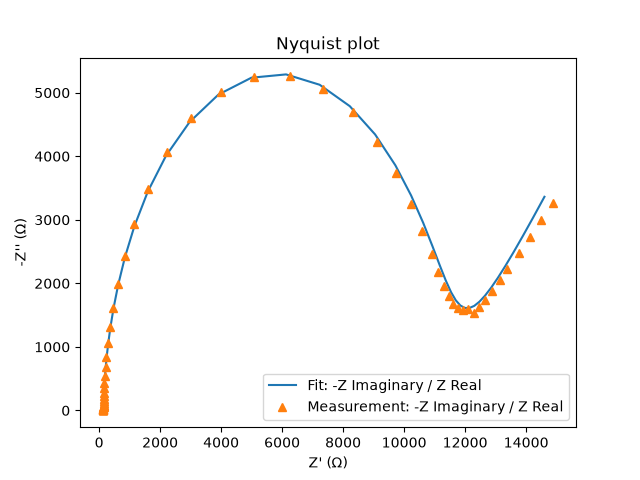
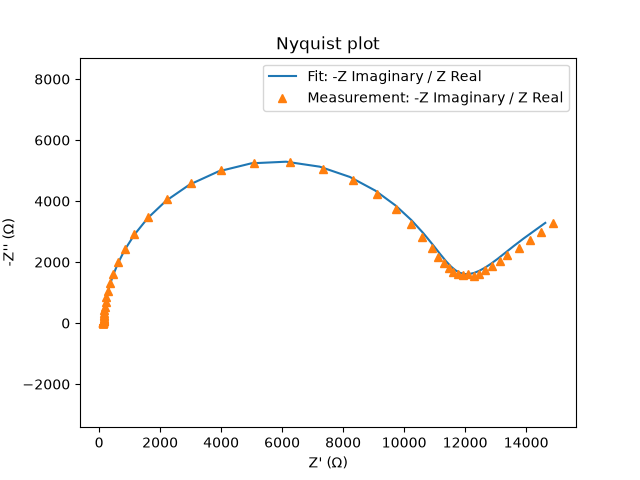
Update docs

diff --git a/python/docs/zensical/circuit_fitting.md b/python/docs/zensical/circuit_fitting.md
@@ -105,25 +105,25 @@ generate the plots from the result:
 
 ## Simulating impedance spectra
 
-You can use [CircuitModel.simulate][pypalsens.fitting.CircuitModel.simulate] to simulate the impedance response at a given set of frequencies. `simulate` takes in the parameters and CDC defined on the model.
+You can use [CircuitModel.simulate][pypalmsens.fitting.CircuitModel.simulate] to simulate the impedance response at a given set of frequencies. `simulate` takes in the parameters and CDC defined on the model.
 
 For example, to simulate the impedance for the PalmSens Dummy Circuit:
 
 ```python
 >>> cdc = 'R(RC)'
->>> parameters = [560, 10_000, 33e-8]
+>>> parameters = [560, 10_000, 33e-9]
 
 >>> model = CircuitModel(cdc=cdc)
 >>> result = model.simulate(parameters=parameters)
 
 >>> result.z_imag
-array([-1.98798376e+03, -2.35478911e+03, -2.76733133e+03, ...]
+array([ -207.25601164,  -250.06598938,  -301.69164849, ...]
 
 >>> result.z_real
-array([10147.8012784 ,  9970.77864191,  9724.35797322, ...]
+array([10555.70264784, 10553.74278482, 10550.88991556, ...]
 
 >>> result.z_phase
-array([-11.08403817, -13.28800969, -15.88514877, ...]
+array([ -1.12482982,  -1.35734266,  -1.63786653, ...]
 
 >>> fig = result.plot_nyquist()
 <Figure size 640x480 with 1 Axes>
@@ -132,6 +132,9 @@ array([-11.08403817, -13.28800969, -15.88514877, ...]
 <Figure size 640x480 with 2 Axes>
 
 ```
+
+![Nyquist plot in PyPalmSens](assets/circuit_fit_simulate_nyquist.png){ width="49%" }
+![Bode plot in PyPalmSens](assets/circuit_fit_simulate_bode.png){ width="49%" }
 
 ## Default values
 
